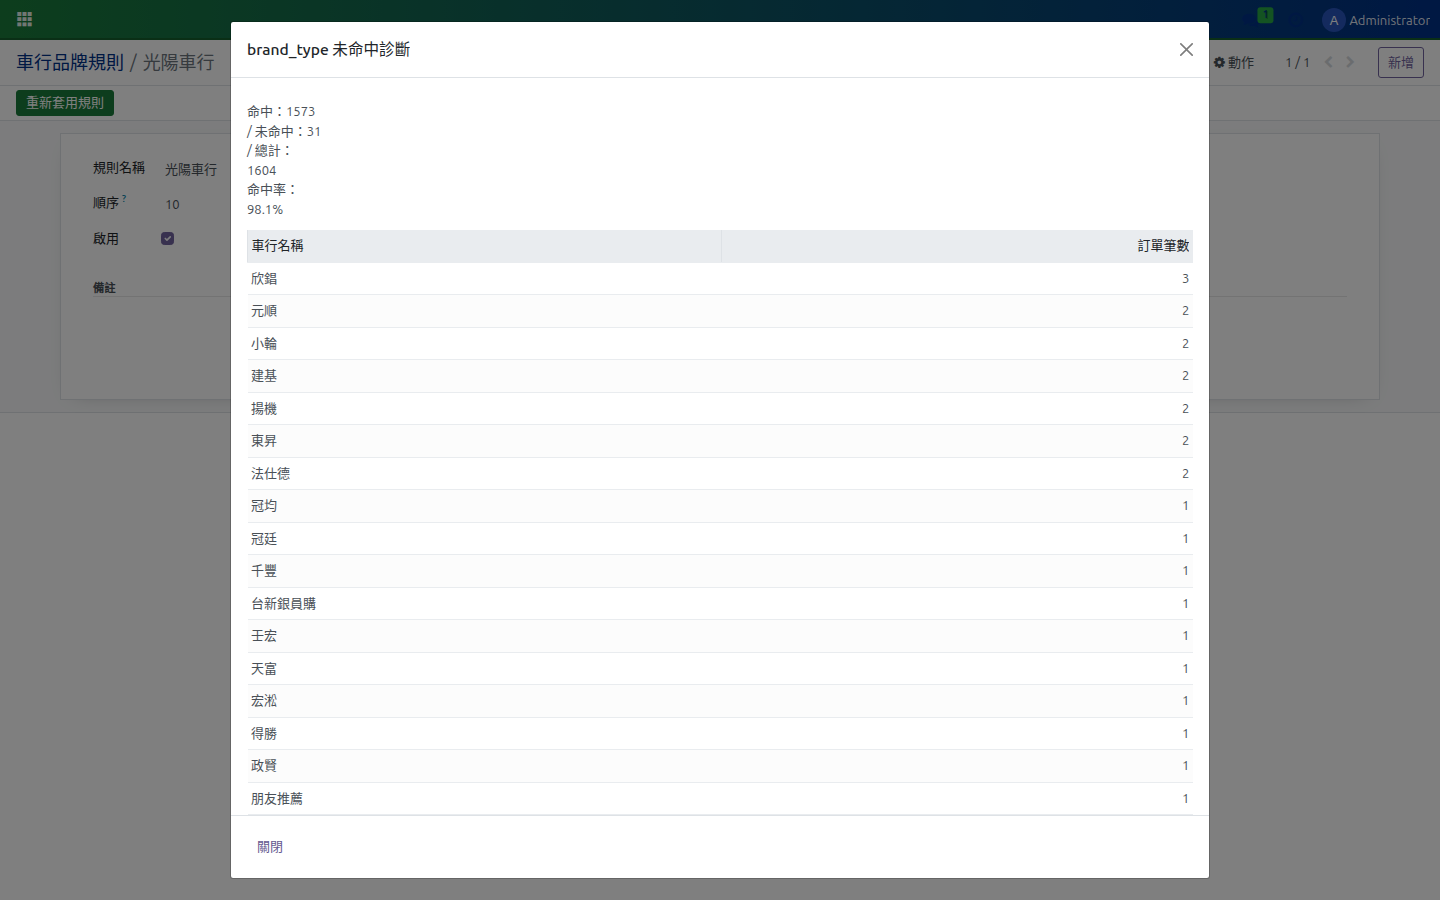
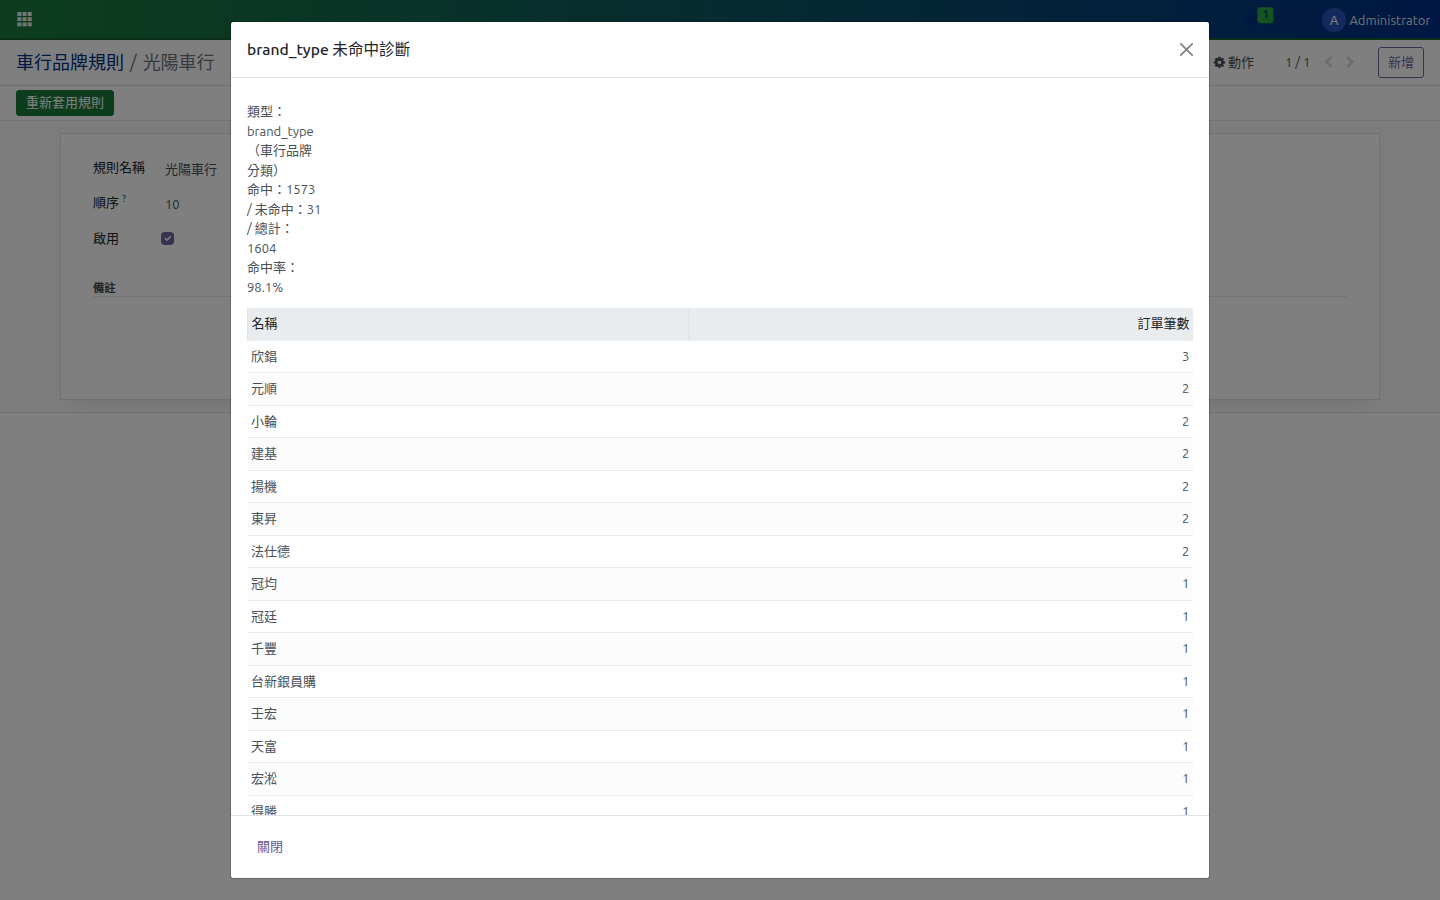
feat(dms_report_ds): wizard 擴充支援 motor_type 未命中診斷
於同一 wizard model 新增 action_open_motor() 與對應 server action / menuitem，
讓使用者在 Odoo 主選單可直接查看 motor_type 落入 ELSE '其他' 的商品清單與筆數，
作為新增 dms.motor.type.rule 規則的依據。

變更：
- wizard/brand_rule_unmatched.py：
  * 加 kind 欄位（brand/motor）
  * 新增 action_open_motor()：以 motor_type='其他' 為未命中、
    依 pname 分組
  * line.dname label 改為通用「名稱」、_description 改為「規則未命中明細」
- wizard/brand_rule_unmatched_views.xml：
  * 新增 ir.actions.server: 診斷 motor_type 未命中
  * 新增 menuitem，sequence=63
- scripts/capture_rules_ui.py：加 06_diagnose_motor_unmatched

驗證：
- 模組 upgrade 成功，server action id=498 已建立
- 當前資料：matched 1583 / unmatched 21 / total 1604（命中率 98.7%）
  motor_type 分佈：白牌 896 / 速克達 579 / 擋車 50 / 綠牌 45 / 微型 13 / 其他 21

Changed region(s): [[0.1562, 0.0933, 0.2188, 0.9022], [0.7812, 0.3422, 0.8438, 0.3733], [0.7812, 0.2489, 0.8438, 0.28]]

diff --git a/addons/dms_report_ds/wizard/brand_rule_unmatched.py b/addons/dms_report_ds/wizard/brand_rule_unmatched.py
@@ -3,8 +3,11 @@ from odoo import api, fields, models
 
 class BrandRuleUnmatchedWizard(models.TransientModel):
     _name = 'dms.dealer.brand.rule.unmatched.wizard'
-    _description = 'brand_type 未命中診斷'
+    _description = '規則未命中診斷'
 
+    kind = fields.Selection(
+        [('brand', 'brand_type'), ('motor', 'motor_type')],
+        string='類型', default='brand', readonly=True)
     summary = fields.Text(string='摘要', readonly=True)
     line_ids = fields.One2many(
         'dms.dealer.brand.rule.unmatched.line',
@@ -50,10 +53,12 @@ class BrandRuleUnmatchedWizard(models.TransientModel):
         rows = cr.fetchall()
 
         summary = (
+            f'類型：brand_type（車行品牌分類）\n'
             f'命中：{matched} / 未命中：{unmatched} / 總計：{total}\n'
             f'命中率：{rate:.1f}%'
         )
         wizard = self.create({
+            'kind': 'brand',
             'summary': summary,
             'line_ids': [
                 (0, 0, {'dname': name, 'order_count': cnt})
@@ -69,14 +74,64 @@ class BrandRuleUnmatchedWizard(models.TransientModel):
             'target': 'new',
         }
 
+    @api.model
+    def action_open_motor(self):
+        """建立 wizard 並開啟視窗，展示 motor_type 未命中清單。
+
+        motor_type 未命中 = ELSE 落到 '其他'。明細以商品名 pname 分組。
+        """
+        cr = self.env.cr
+        cr.execute("""
+            SELECT
+                SUM(CASE WHEN motor_type IS NOT NULL AND motor_type <> '其他'
+                         THEN 1 ELSE 0 END) AS matched,
+                SUM(CASE WHEN motor_type = '其他' OR motor_type IS NULL
+                         THEN 1 ELSE 0 END) AS unmatched,
+                COUNT(*) AS total
+            FROM ds_sales_report
+        """)
+        matched, unmatched, total = cr.fetchone() or (0, 0, 0)
+        rate = (matched / total * 100.0) if total else 0.0
+
+        cr.execute("""
+            SELECT pname, COUNT(*) AS cnt
+            FROM ds_sales_report
+            WHERE motor_type = '其他' OR motor_type IS NULL
+            GROUP BY 1
+            ORDER BY 2 DESC, 1
+        """)
+        rows = cr.fetchall()
+
+        summary = (
+            f'類型：motor_type（車種類型分類，依商品名 pname 比對）\n'
+            f'命中：{matched} / 未命中：{unmatched} / 總計：{total}\n'
+            f'命中率：{rate:.1f}%'
+        )
+        wizard = self.create({
+            'kind': 'motor',
+            'summary': summary,
+            'line_ids': [
+                (0, 0, {'dname': name or '(空)', 'order_count': cnt})
+                for name, cnt in rows
+            ],
+        })
+        return {
+            'type': 'ir.actions.act_window',
+            'name': 'motor_type 未命中診斷',
+            'res_model': self._name,
+            'view_mode': 'form',
+            'res_id': wizard.id,
+            'target': 'new',
+        }
+
 
 class BrandRuleUnmatchedLine(models.TransientModel):
     _name = 'dms.dealer.brand.rule.unmatched.line'
-    _description = 'brand_type 未命中明細'
+    _description = '規則未命中明細'
     _order = 'order_count desc, dname'
 
     wizard_id = fields.Many2one(
         'dms.dealer.brand.rule.unmatched.wizard',
         ondelete='cascade')
-    dname = fields.Char(string='車行名稱', readonly=True)
+    dname = fields.Char(string='名稱', readonly=True)
     order_count = fields.Integer(string='訂單筆數', readonly=True)

diff --git a/scripts/capture_rules_ui.py b/scripts/capture_rules_ui.py
@@ -130,6 +130,8 @@ def main():
          f"{BASE}/web#action=496&view_type=form&id=1", 6.0),
         ("05_diagnose_unmatched",
          f"{BASE}/web#action=497", 8.0),
+        ("06_diagnose_motor_unmatched",
+         f"{BASE}/web#action=498", 8.0),
     ]
     capture(targets, sid)
 
